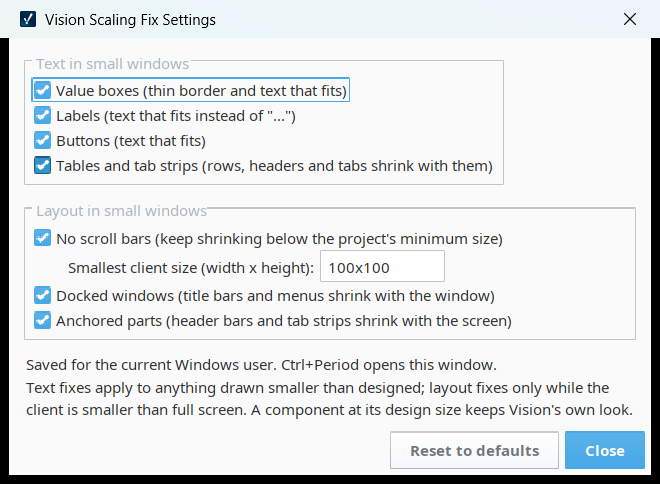
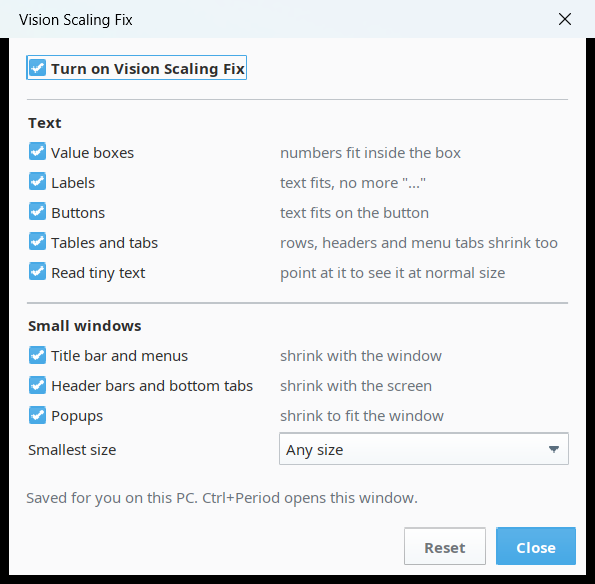
docs: the new settings and fixes in the README

diff --git a/README.md b/README.md
@@ -7,7 +7,7 @@
 
 Keeps numbers and labels readable when a Vision client window is smaller than its screens were designed for: half the screen (side by side or top and bottom), a quarter, a phone over Remote Desktop, or a PC at 125 % display scaling.
 
-Without it, value boxes cut their numbers off: only a thin slice through the middle of the digits shows, so they read as dots and dashes, and labels end in "..." even when there is room. Below 800x600 the client also stops shrinking and adds scroll bars, and docked title bars and menus keep their full size. With it, the same boxes show the whole number, a little smaller, and the whole client shrinks evenly, like a picture. At full size nothing changes.
+Without it, value boxes cut their numbers off: only a thin slice through the middle of the digits shows, so they read as dots and dashes, and labels end in "..." even when there is room. Below 800x600 the client also stops shrinking and adds scroll bars, docked title bars and menus keep their full size, and popups get cut off. With it, the same boxes show the whole number, a little smaller, and the whole client shrinks evenly, like a picture. At full size nothing changes.
 
 <p align="center">
   <img src="docs/demo.gif" alt="The same dashboard card in two Vision clients while their windows shrink from full screen to 560 x 360 px: with the module off, the Wet Well Level, Flow and Pump 1 Speed values lose their top and bottom until only dashes are left; with it on they stay whole" width="100%">
@@ -42,30 +42,32 @@ Smaller causes:
 
 ## What it does
 
-Each fix has its own check box in the settings window (**Ctrl+Period** in a client), all on by default.
+Each fix has its own check box in the settings window (**Ctrl+Period** in a client), all on by default, under a master switch.
 
-**Text in small windows.** After Vision lays a window out, each component drawn below 97 % of its design height gets:
+<img src="docs/settings.png" alt="The Vision Scaling Fix settings window: a Turn on Vision Scaling Fix switch; under Text, value boxes, labels, buttons, tables and tabs, and read tiny text; under Small windows, title bar and menus, header bars and bottom tabs, popups, and a Smallest size choice set to Any size" width="480">
+
+**Text.** After Vision lays a window out, each component drawn below 97 % of its design height gets:
 
 - **Value boxes:** a 1 px line border whose padding shrinks with the box, in place of the fixed 8 px, and text that fits.
-- **Labels and buttons:** the exact (fractional) font size, shrunk in quarter-point steps until the text fits the height and width it has, instead of ending in "...". A button's margin shrinks with it. HTML text is left alone (it wraps instead).
-- **Tables and tab strips:** an alarm status table's rows, header and Acknowledge/Shelve buttons, and a tab strip's tab fonts, padding and spacing, shrink with the component. Vision's own layout leaves these at full size.
+- **Labels and buttons:** the exact (fractional) font size, shrunk in quarter-point steps until the text fits, instead of ending in "...". A button keeps its look-and-feel border, but the border's padding (6 px a side in Ignition's look and feel) shrinks with the button. HTML text is left alone (it wraps instead).
+- **Tables and tabs:** an alarm status table's rows, header and Acknowledge/Shelve buttons, and a tab strip's tab fonts, padding and spacing, shrink with the component. Vision's own layout leaves these at full size.
+- **Read tiny text:** text that ends up smaller than 7 pt shows at a readable size in a tooltip when the mouse is over it (a tap over Remote Desktop). A component's own tooltip is never replaced.
 
-**Layout in small windows.** While the client is smaller than its screen's full size, it shrinks as one picture:
+**Small windows.** While the client is smaller than its screen's full size, it shrinks as one picture:
 
-- **No scroll bars:** Vision doesn't lay its screens out smaller than the project's Minimum Size (Project Properties → Vision → User Interface, 800x600 by default), and adds scroll bars below that. The module lowers that limit (100x100 by default, adjustable in the settings window) so the whole screen stays in view.
-- **Docked windows:** a title bar or menu docked at an edge keeps its pixel size in Vision, so in a small window it takes most of the space. The module scales each docked window's thickness by how much smaller than full screen the client is. Vision's dock layout uses each docked window's current width or height.
-- **Anchored parts:** components anchored to an edge (a header bar, a bottom tab strip) keep their pixel size in Vision and overlap the shrinking rest. The module lays them out as relative components (their layout flags) while the client is small.
+- **Title bar and menus:** a window docked at an edge keeps its pixel size in Vision, so in a small window it takes most of the space. The module scales each docked window's thickness by how much smaller than full screen the client is. Vision's dock layout uses each docked window's current width or height.
+- **Header bars and bottom tabs:** components anchored to an edge keep their pixel size in Vision and overlap the shrinking rest. The module lays them out as relative components (their layout flags) while the client is small.
+- **Popups:** a popup bigger than the visible part of the window shrinks to fit it, centered, and gets its own size back when the window grows. Without this, Vision grows its desktop around the popup and adds scroll bars.
+- **Smallest size:** Vision doesn't lay its screens out smaller than the project's Minimum Size (Project Properties → Vision → User Interface, 800x600 by default), and scrolls below that. **Any size** lowers that limit to 100x100, so the whole screen always stays in view. **Half the screen** keeps shrinking to half the screen and scrolls below that, so text stays readable. **The project's minimum** keeps Vision's own limit.
 
-A maximized client is never changed by the layout fixes, and components back at (nearly) their design size get Vision's own border, font and layout back. Nothing is saved to the project, and uninstalling the module puts everything back in open clients right away.
-
-<img src="docs/settings.png" alt="The Vision Scaling Fix Settings window: check boxes for value boxes, labels, buttons, tables and tab strips under Text in small windows, and no scroll bars (with the smallest client size, 100x100), docked windows and anchored parts under Layout in small windows" width="560">
+A maximized client is never changed by the small-window fixes, and components back at (nearly) their design size get Vision's own border, font and layout back. Nothing is saved to the project, and uninstalling the module puts everything back in open clients right away.
 
 Vision re-applies its own rounded font on every layout pass whenever the rounded size differs from the component's current one. So the module also writes its size into the component's layout font ratios: Vision's next pass arrives at the same size and leaves the font alone, instead of the two undoing each other. If something keeps changing a component back at the same size (more than 5 times a second), the module leaves it alone for 5 seconds, then tries again.
 
 ## What it doesn't fix
 
-- **Proportions:** Vision keeps a screen's proportions, so in a tall, narrow window the screen comes out small with blank space above and below.
-- **Very small text:** at a quarter of the screen and below, text is whole but small. A button 20 px wide can't show readable text either way.
+- **Proportions:** Vision keeps a screen's proportions, so in a tall, narrow window the screen comes out small with blank space above and below. Changing that would stretch or squash the graphics: Vision uses the same layout flags for where a panel goes and how its contents are laid out, and in testing, changing them pulled the contents out of their panels.
+- **Very small windows:** a 1920-wide screen in a quarter of a monitor has text 4 to 6 px tall, too small to read in any program. Use **Read tiny text**, or **Smallest size: Half the screen**.
 - **Trade-off:** labels that Vision ended with "..." now show their whole text, but smaller.
 
 Java can also zoom the whole client evenly, on a PC that always runs it small: `-Dsun.java2d.uiScale=0.5` makes Java report the screen twice as large, so Vision lays screens out at full size and Java draws them at half size. It works together with this module. In our tests (Vision Client Launcher 1.1.35) the launcher's JVM arguments reached only the launcher itself, not the client it starts; setting `JAVA_TOOL_OPTIONS=-Dsun.java2d.uiScale=0.5` before starting the launcher did reach the client.
@@ -91,14 +93,17 @@ An administrator can set a fix for every user of one PC with a Java system prope
 | Property | What it does |
 | --- | --- |
 | `-Dvisionscaling.disabled=true` | turns the whole module off in that client (useful for comparing with and without it) |
+| `-Dvisionscaling.enabled=false` | the master switch, "Turn on Vision Scaling Fix" |
 | `-Dvisionscaling.fields=false` | value boxes |
 | `-Dvisionscaling.labels=false` | labels |
 | `-Dvisionscaling.buttons=false` | buttons |
-| `-Dvisionscaling.parts=false` | tables and tab strips |
-| `-Dvisionscaling.noScrollBars=false` | keeps the project's minimum size and its scroll bars (`-Dvisionscaling.minSize=off` too) |
-| `-Dvisionscaling.minSize=640x480` | the smallest client size when scroll bars are off (100x100 by default) |
-| `-Dvisionscaling.docks=false` | docked windows |
-| `-Dvisionscaling.anchored=false` | anchored parts |
+| `-Dvisionscaling.parts=false` | tables and tabs |
+| `-Dvisionscaling.hover=false` | read tiny text |
+| `-Dvisionscaling.docks=false` | title bar and menus |
+| `-Dvisionscaling.anchored=false` | header bars and bottom tabs |
+| `-Dvisionscaling.popups=false` | popups |
+| `-Dvisionscaling.minSize=half` | smallest size: half the screen (or a size such as `640x480`; `off` keeps the project's minimum) |
+| `-Dvisionscaling.noScrollBars=false` | smallest size: the project's minimum |
 | `-Dvisionscaling.debug=true` | writes a trace to `visionscaling-debug.txt` in the temp folder |
 
 ## Building
